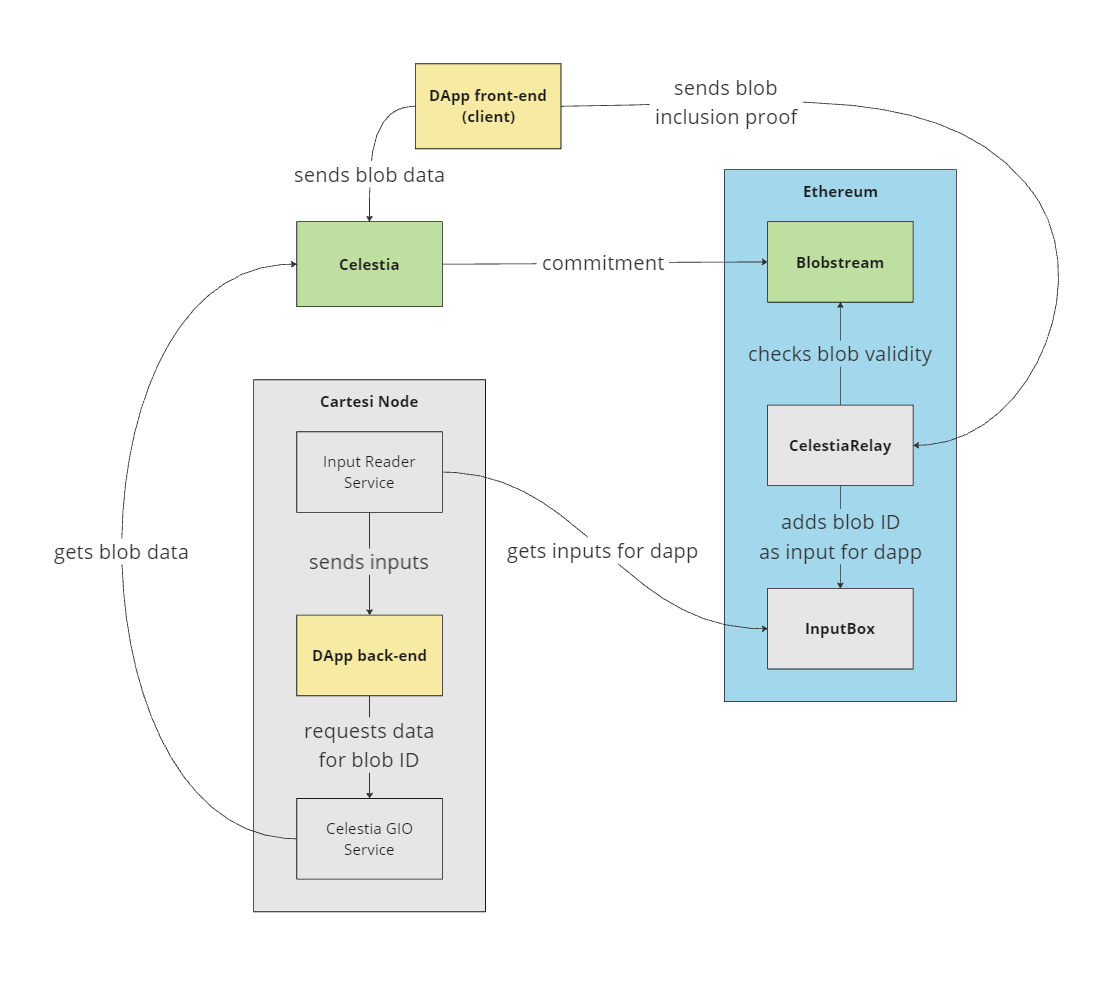
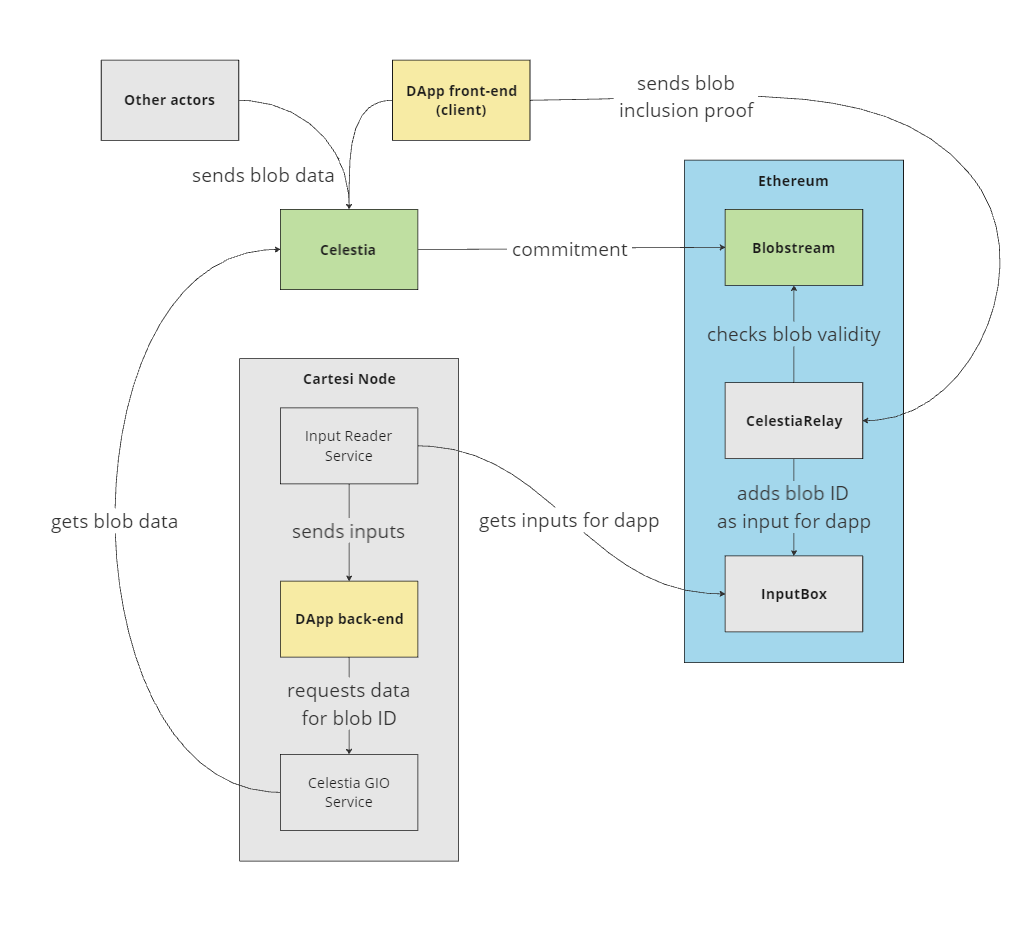
Update README to show that any blob can be relayed
Previous workflow did not cover the possibility of
relaying blobs previously sent by other actors

diff --git a/README.md b/README.md
@@ -18,7 +18,8 @@ The following diagram summarizes the architecture and general workflow:
 
 1. DApp is deployed to an Ethereum-compatible network for which there is a Blobstream contract receiving Celestia commitments
 1. Client submits data (a blob) to Celestia, specifying a namespace associated with the Cartesi DApp's address
-1. Once the blob is included in a Celestia block, client builds a proof of its inclusion in that block
+1. Alternatively, client can retrieve the reference of a blob previously submitted by other actors
+1. Once the blob is included in a Celestia block and that block's commitment is submitted to the `Blobstream` contract, client builds a proof of the blob's inclusion in the commitment
 1. Client submits the blob inclusion proof to a `CelestiaRelay` contract on the base layer, with the intent of sending it to the Cartesi DApp's back-end
 1. The `CelestiaRelay` contract calls the Celestia `Blobstream` contract to verify the blob inclusion proof against the official Celestia data commitments
 1. Once the blob is validated, the `CelestiaRelay` contract calls the Cartesi `InputBox` to add a pointer (ID) to the blob as an input to the Cartesi DApp
